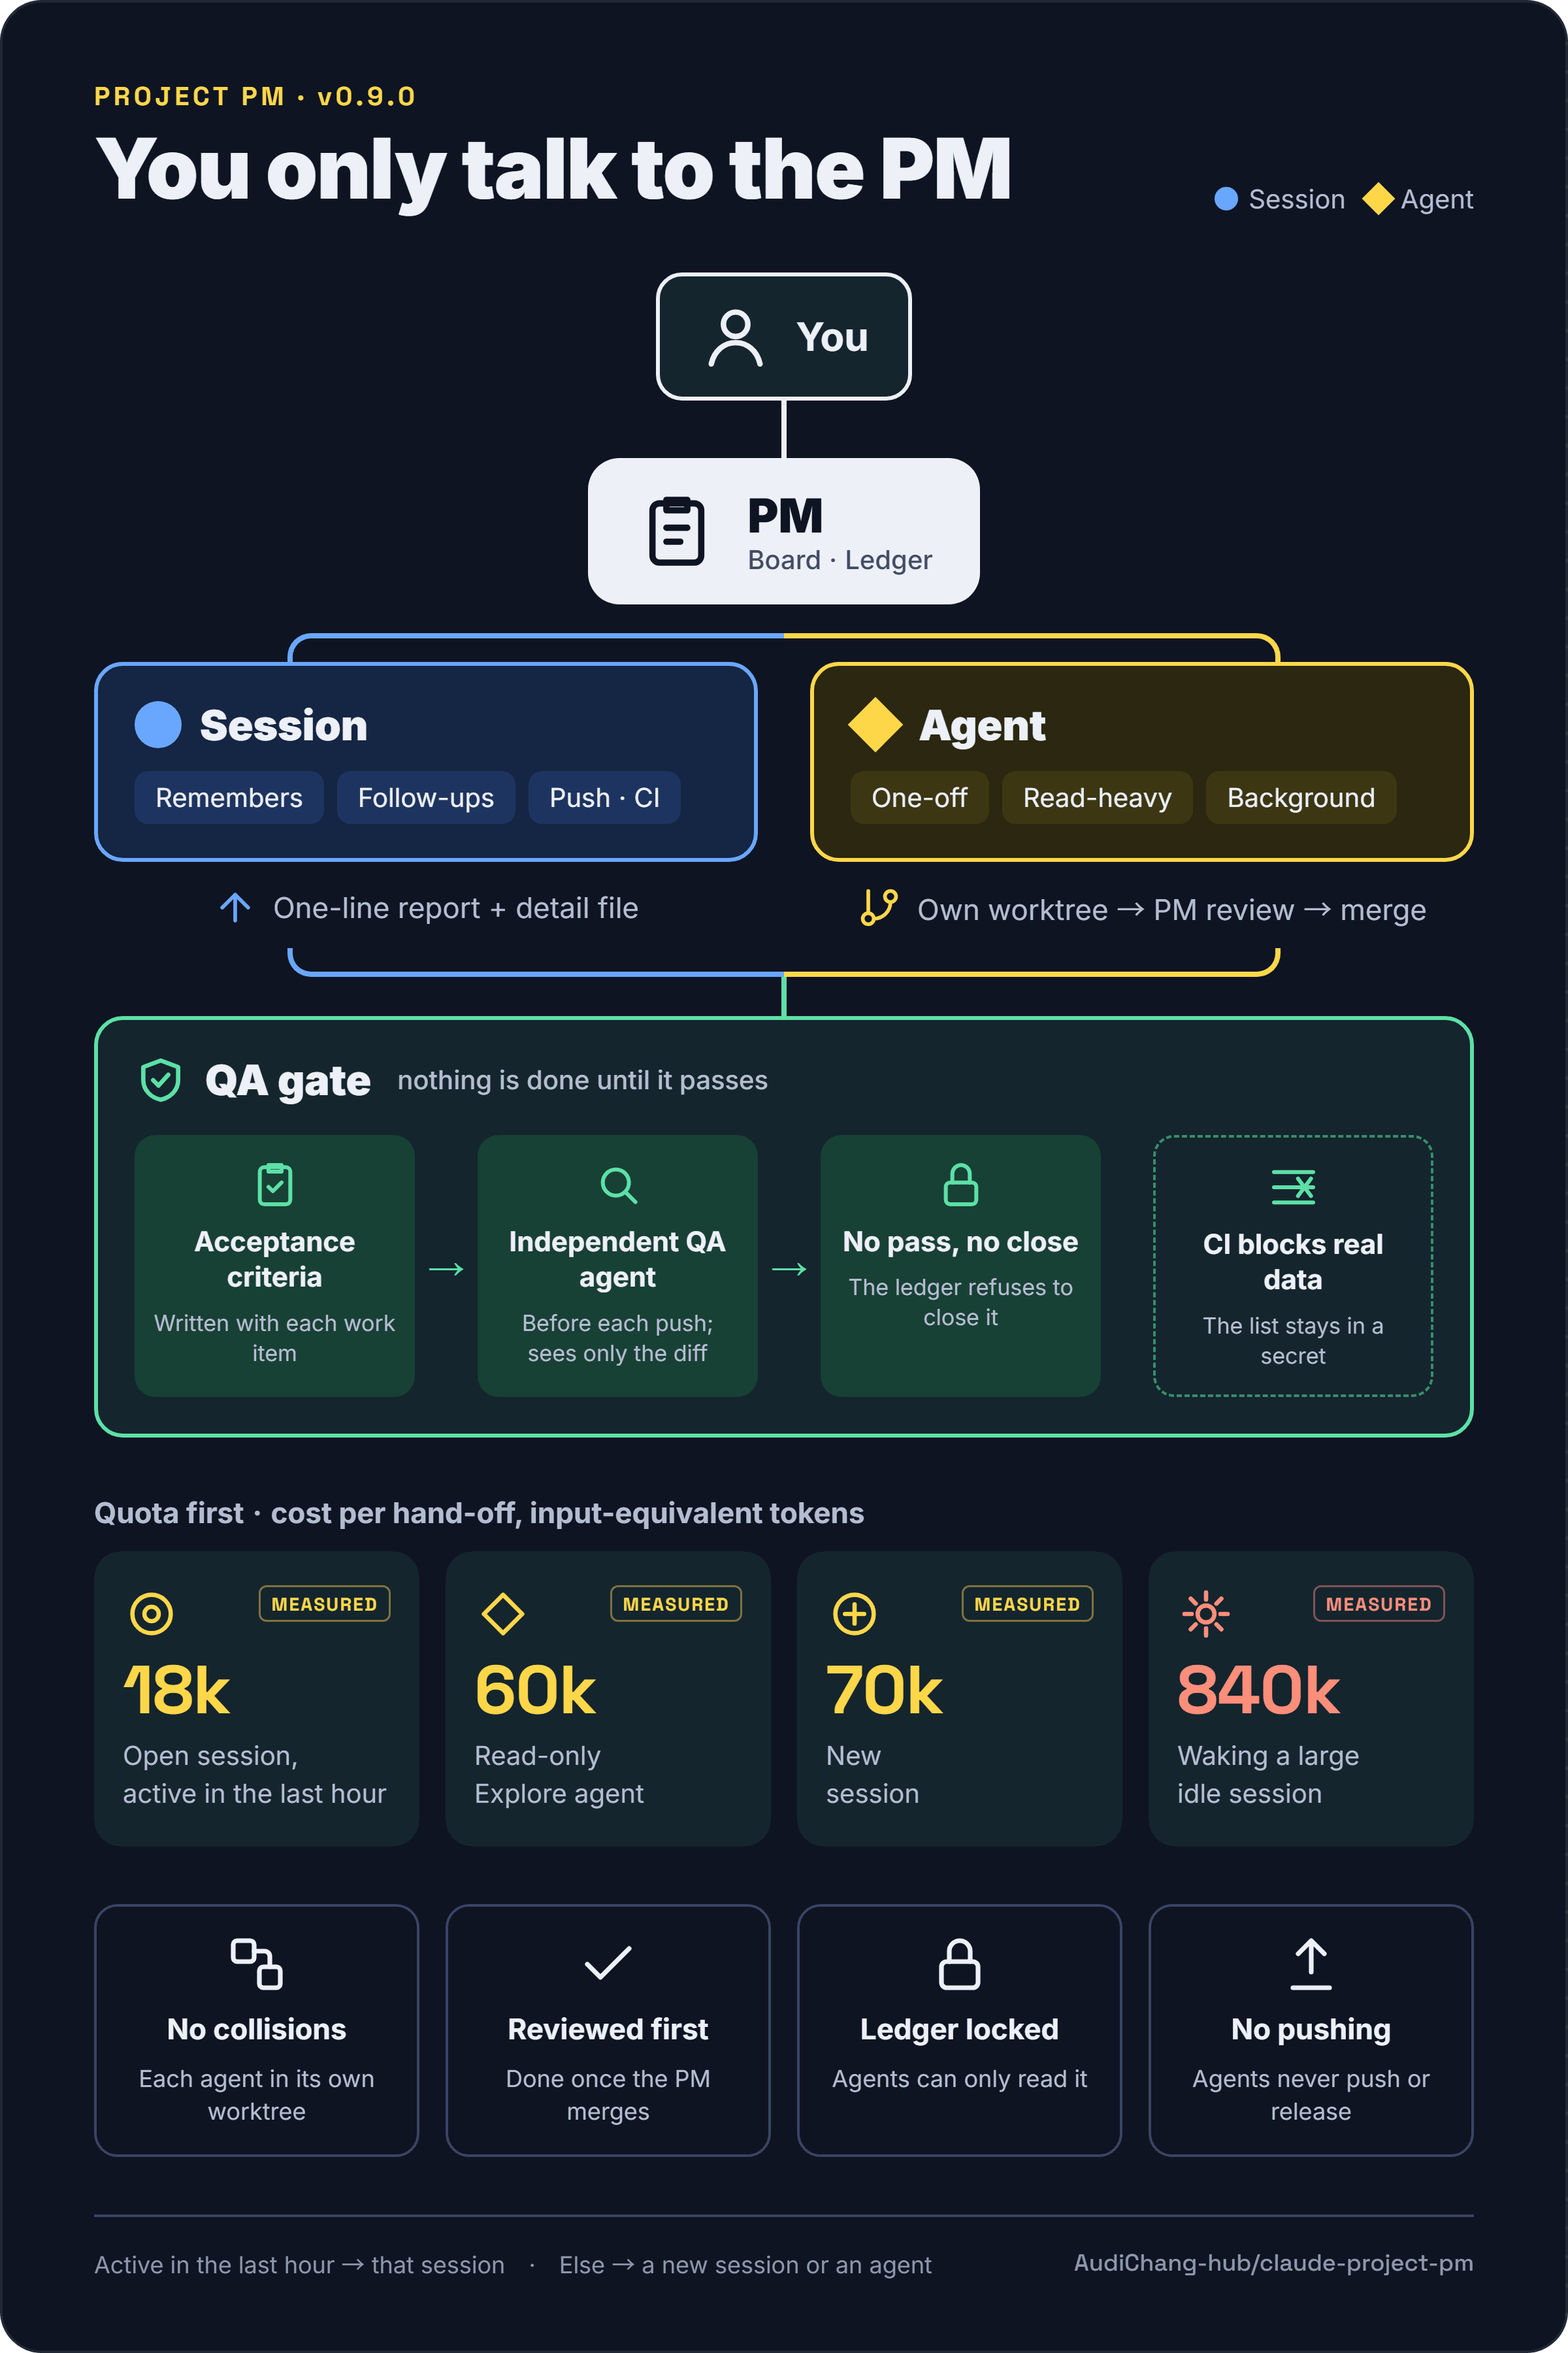
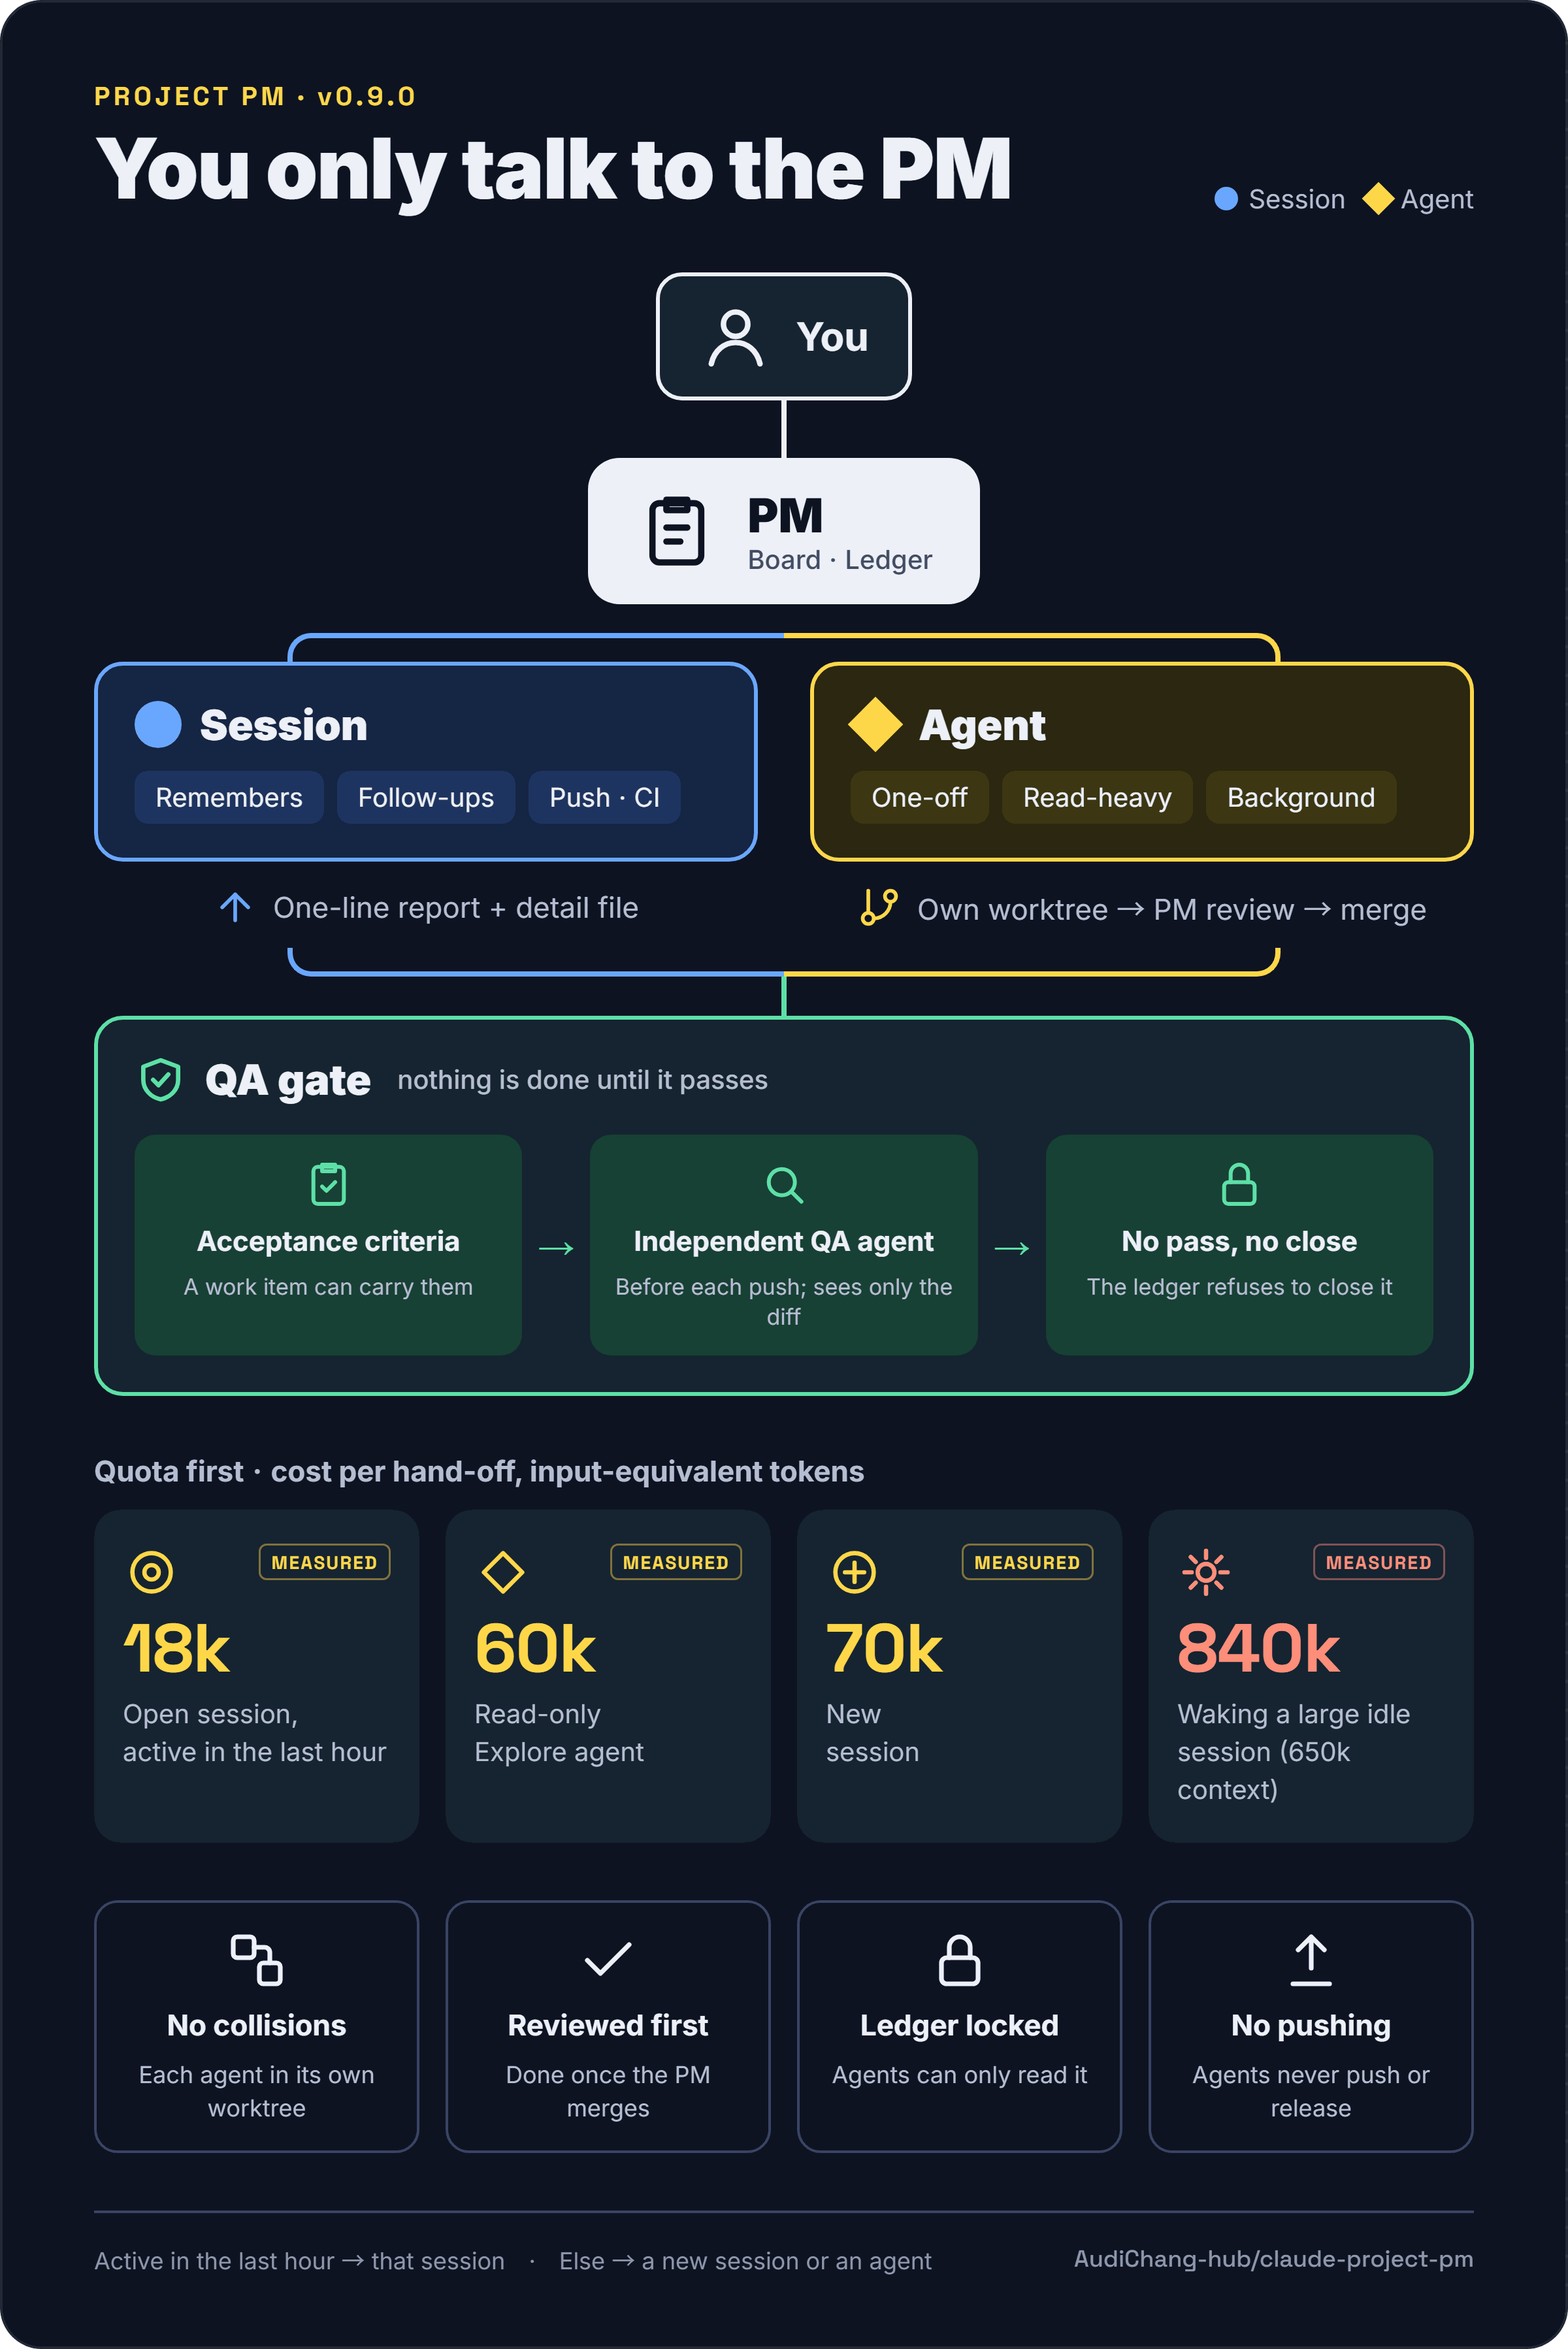
Overview: the CI scan leaves the QA gate; criteria are optional
The overview drew the CI real-data scan inside the QA gate, as if a
reader's project had it now; it runs in this repository's own CI only,
and the platform table gives the template v1.0. The gate keeps its
three steps (criteria, independent QA agent, no pass no close). The
criteria step says a work item can carry them (they are optional), and
the 840k cost names its premise, a 650k context. Both images are
redrawn at 2400 px wide and checked; the READMEs' alt text follows the
picture and is shorter.

diff --git a/docs/demo/overview.html b/docs/demo/overview.html
@@ -8,10 +8,10 @@
           overview.html?lang=zh-TW   docs/images/overview-zh-TW.png
   Capture: pwsh docs/demo/capture.ps1 (see docs/demo/README.md)
 
-  The four costs are the T-30 quota measurements (CHANGELOG Unreleased, PM rule 10), in
+  The four costs are the T-30 quota measurements (CHANGELOG 0.9.0, PM rule 10), in
   input-equivalent tokens: an open session active in the last hour 18k, a read-only Explore agent 60k,
   a new session 70k, waking a large idle session (a 650k context) 840k. The QA layer is
-  docs/design/qa.md.
+  docs/design/qa.md; the CI real-data scan is left out, as it runs in this repository's own CI only.
 -->
 <html lang="en">
 <head>
@@ -83,11 +83,10 @@
   .qa-gate { width: 100%; background: var(--green-bg); border: 3px solid var(--green); border-radius: 22px; padding: 26px 28px 28px; display: flex; flex-direction: column; gap: 22px; }
   .qa-gate .title { gap: 14px; font-size: 32px; font-weight: 900; }
   .qa-gate .title small { font-size: 20px; font-weight: 500; color: var(--ink-2); margin-left: 6px; }
-  .steps { display: grid; grid-template-columns: 1fr auto 1fr auto 1fr 20px 1fr; align-items: stretch; gap: 10px; }
+  .steps { display: grid; grid-template-columns: 1fr auto 1fr auto 1fr; align-items: stretch; gap: 12px; }
   .step { background: var(--green-chip); border-radius: 16px; padding: 18px 14px; display: flex; flex-direction: column; align-items: center; gap: 10px; text-align: center; }
   .step b { font-size: 21px; font-weight: 700; line-height: 1.3; }
   .step p { margin: 0; font-size: 17px; line-height: 1.35; color: var(--ink-2); }
-  .step.ci { background: transparent; border: 2px dashed rgba(94, 224, 168, .55); }
   .arrow { align-self: center; color: var(--green); font: 700 28px/1 "Inter", sans-serif; }
   .costs { display: flex; flex-direction: column; gap: 16px; }
   .costs h2 { margin: 0; font-size: 22px; font-weight: 700; color: var(--ink-2); }
@@ -125,17 +124,16 @@ const COPY = {
     qaTitle: 'QA gate',
     qaSub: 'nothing is done until it passes',
     qa: [
-      ['Acceptance criteria', 'Written with each work item'],
+      ['Acceptance criteria', 'A work item can carry them'],
       ['Independent QA agent', 'Before each push; sees only the diff'],
       ['No pass, no close', 'The ledger refuses to close it'],
-      ['CI blocks real data', 'The list stays in a secret'],
     ],
     costsTitle: 'Quota first · cost per hand-off, input-equivalent tokens',
     stats: [
       ['18k', 'Open session,<br>active in the last hour', 'measured'],
       ['60k', 'Read-only<br>Explore agent', 'measured'],
       ['70k', 'New<br>session', 'measured'],
-      ['840k', 'Waking a large<br>idle session', 'measured'],
+      ['840k', 'Waking a large idle<br>session (650k context)', 'measured'],
     ],
     guards: [
       ['No collisions', 'Each agent in its own worktree'],
@@ -156,17 +154,16 @@ const COPY = {
     qaTitle: 'QA 關卡',
     qaSub: '沒通過就不算完成',
     qa: [
-      ['驗收條件', '登記工作時一起寫'],
+      ['驗收條件', '工作項目可以附上'],
       ['獨立驗收 Agent', 'push 前派出，只看 diff'],
       ['沒通過不能結案', '交辦清單拒絕結案'],
-      ['CI 擋真實資料', '名單只放在 secret'],
     ],
     costsTitle: '額度優先 · 每次派工的成本（等值輸入 tokens）',
     stats: [
       ['1.8 萬', '1 小時內有活動的<br>既有 Session', '實測'],
       ['6 萬', '唯讀的<br>Explore Agent', '實測'],
       ['7 萬', '開一個<br>新 Session', '實測'],
-      ['84 萬', '喚醒閒置的<br>大 Session', '實測'],
+      ['84 萬', '喚醒閒置的大 Session<br>（65 萬上下文）', '實測'],
     ],
     guards: [
       ['各改各的', 'worktree 隔離'],
@@ -194,7 +191,6 @@ const ICON = {
     '<rect x="5" y="4" width="14" height="17" rx="2"></rect><path d="M9 3h6v3H9z"></path><path d="m9 13 2 2 4-4"></path>',
     '<circle cx="11" cy="11" r="6"></circle><path d="m20 20-4.5-4.5"></path>',
     '<rect x="5" y="11" width="14" height="10" rx="2"></rect><path d="M8 11V7a4 4 0 0 1 8 0v4"></path>',
-    '<path d="M3 5h18M3 12h18M3 19h18"></path><path d="M14 8l6 8M20 8l-6 8"></path>',
   ],
   stats: [
     '<circle cx="12" cy="12" r="3"></circle><circle cx="12" cy="12" r="8"></circle>',
@@ -235,7 +231,7 @@ document.getElementById('poster').innerHTML = `
     <div class="stem qa"></div>
     <div class="qa-gate">
       <div class="row title">${svg(40, '#5ee0a8', 2, ICON.shield)}${c.qaTitle}<small>${c.qaSub}</small></div>
-      <div class="steps">${c.qa.map(([b, t], i) => `${i === 3 ? '<span></span>' : i ? '<span class="arrow">→</span>' : ''}<div class="step${i === 3 ? ' ci' : ''}">${svg(40, '#5ee0a8', 1.8, ICON.qa[i])}<b>${b}</b><p>${t}</p></div>`).join('')}</div>
+      <div class="steps">${c.qa.map(([b, t], i) => `${i ? '<span class="arrow">→</span>' : ''}<div class="step">${svg(40, '#5ee0a8', 1.8, ICON.qa[i])}<b>${b}</b><p>${t}</p></div>`).join('')}</div>
     </div>
   </div>
 

diff --git a/README.zh-TW.md b/README.zh-TW.md
@@ -8,7 +8,7 @@
 **同時開很多個 Claude Code Session 和 Agent，你只跟一個 PM 說話，一件工作也不漏。**
 
 <p align="center">
-  <img src="docs/images/overview-zh-TW.png" alt="Project PM v0.9.0 一頁圖解：你只跟 PM 說話，PM 管看板和交辦清單，把工作交給 Session 或 Agent。兩者都要過 QA 關卡：驗收條件、push 前派獨立驗收 Agent、沒通過不能結案、CI 擋真實資料（名單只放在 secret）。每次派工的實測成本：1.8 萬到 84 萬等值輸入 tokens。Agent 在獨立 worktree 工作，也不會 push。" width="100%">
+  <img src="docs/images/overview-zh-TW.png" alt="Project PM v0.9.0 一頁圖解：你只跟 PM 說話，PM 把工作交給 Session 或 Agent；QA 關卡（驗收條件、push 前派獨立驗收 Agent、沒通過不能結案），以及每次派工的實測成本。" width="100%">
 </p>
 
 ## 解決什麼問題

diff --git a/README.md b/README.md
@@ -8,7 +8,7 @@
 **Run many Claude Code sessions and agents at once. You talk to one PM, and nothing slips.**
 
 <p align="center">
-  <img src="docs/images/overview.png" alt="Project PM v0.9.0 at a glance: you talk to the PM, which keeps a board and a ledger and hands work to sessions or agents. Both pass a QA gate: acceptance criteria, an independent QA agent before each push, no close without a pass, and CI that blocks real data kept in a secret. Measured cost per hand-off: 18k to 840k input-equivalent tokens. Agents work in their own worktree and never push." width="100%">
+  <img src="docs/images/overview.png" alt="Project PM v0.9.0 at a glance: you talk to the PM, which hands work to sessions or agents; a QA gate (acceptance criteria, an independent QA agent before each push, no close without a pass) and the measured cost of each hand-off." width="100%">
 </p>
 
 ## Why
